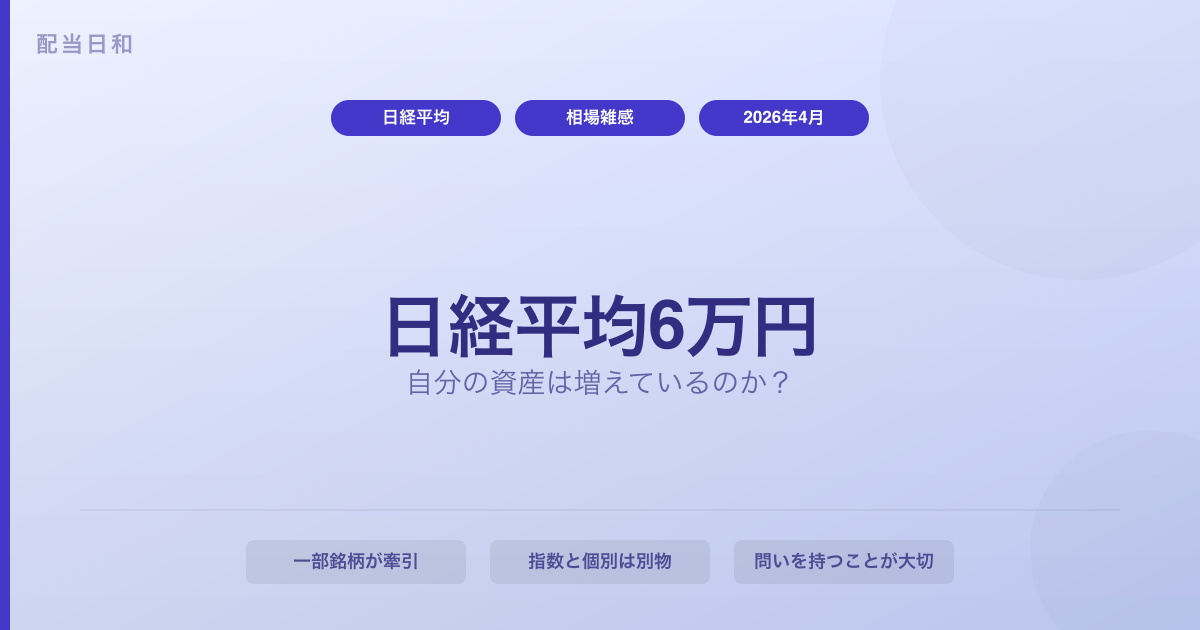
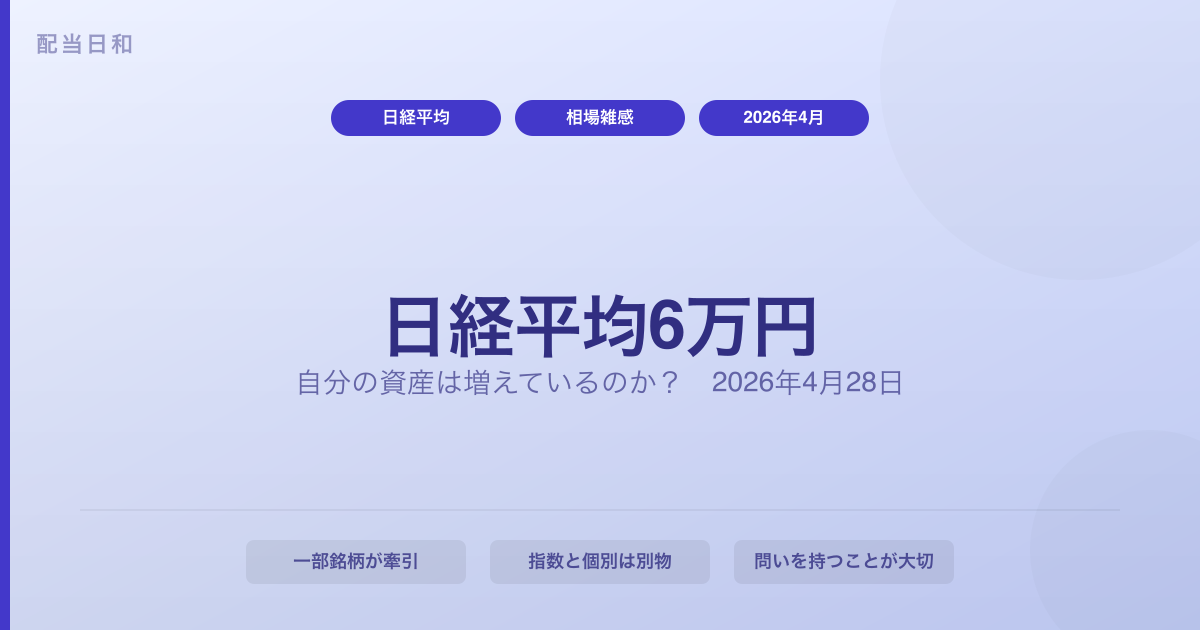
fix: 日経平均記事の口調修正・アイキャッチ日付追加

Changed region(s): [[0.2467, 0.573, 0.74, 0.6333]]

diff --git a/src/content/blog/nikkei-60000-my-thoughts.md b/src/content/blog/nikkei-60000-my-thoughts.md
@@ -13,52 +13,52 @@ slug: 'nikkei-60000-my-thoughts'
 
 ## 日経平均6万円。でも「自分の資産」は増えているのか？
 
-日経平均が、ついに6万円を超えた。
+日経平均が、ついに6万円を超えました。
 
-ニュースだけ見れば、「日本株は絶好調」に見える。
+ニュースだけ見れば、「日本株は絶好調」に見えます。
 
-でも、少し立ち止まって考えてみたい。
+でも、少し立ち止まって考えてみたいことがあります。
 
-**あなたの持ち株は、本当に上がっているだろうか。**
+**あなたの持ち株は、本当に上がっているでしょうか。**
 
 ---
 
-## 今回の上昇は、「みんなが儲かっている相場」ではない
+## 今回の上昇は、「みんなが儲かっている相場」ではありません
 
-今回の上昇を支えているのは、半導体やAI関連といった一部の銘柄だ。
+今回の上昇を支えているのは、半導体やAI関連といった一部の銘柄です。
 
-実際には、値下がりしている銘柄の方が多い。
+実際には、値下がりしている銘柄の方が多いのが現状です。
 
-つまりこれは、「みんなが儲かっている相場」ではない。
+つまりこれは、「みんなが儲かっている相場」ではありません。
 
 ---
 
 ## なぜ一部だけが上がるのか
 
-答えはシンプルで、市場が"未来"を買っているからだ。
+答えはシンプルで、市場が"未来"を買っているからです。
 
-AI、半導体、データセンター。これから伸びると信じられている分野に、資金が集中している。
+AI、半導体、データセンター。これから伸びると信じられている分野に、資金が集中しています。
 
-でも、ここで一つの問いが残る。
+でも、ここで一つの問いが残ります。
 
-**その期待は、すでに織り込まれていないか？**
+**その期待は、すでに織り込まれていないでしょうか？**
 
-6万円はゴールではないかもしれない。ただの通過点の可能性もある。
+6万円はゴールではないかもしれません。ただの通過点の可能性もあります。
 
-一方で、期待が先行しすぎた「天井」のサインである可能性もある。
+一方で、期待が先行しすぎた「天井」のサインである可能性もあります。
 
 ---
 
 ## だからこそ大事なのは、指数ではなく「自分の投資」
 
-指数が上がっていても、自分のポートフォリオが動いていなければ意味はない。逆に、指数が上がっていても、自分が持つ銘柄の本質的な価値が変わっていないなら、焦る必要もない。
+指数が上がっていても、自分のポートフォリオが動いていなければ意味はありません。逆に、指数が上がっていても、自分が持つ銘柄の本質的な価値が変わっていないなら、焦る必要もありません。
 
-大切なのはこの問いを持つことだ。
+大切なのはこの問いを持つことです。
 
 - なぜこの銘柄を持っているのか
 - この成長は本物なのか
 
-この問いを持てるかどうかで、この先の結果は変わってくる。
+この問いを持てるかどうかで、この先の結果は変わってくると思います。
 
 ---
 
@@ -68,7 +68,7 @@ AI、半導体、データセンター。これから伸びると信じられて
 
 その数字に安心するか、それとも違和感を持つか。
 
-投資家としての分岐点は、案外こういう瞬間にある。
+投資家としての分岐点は、案外こういう瞬間にあると感じています。
 
 ---
 
